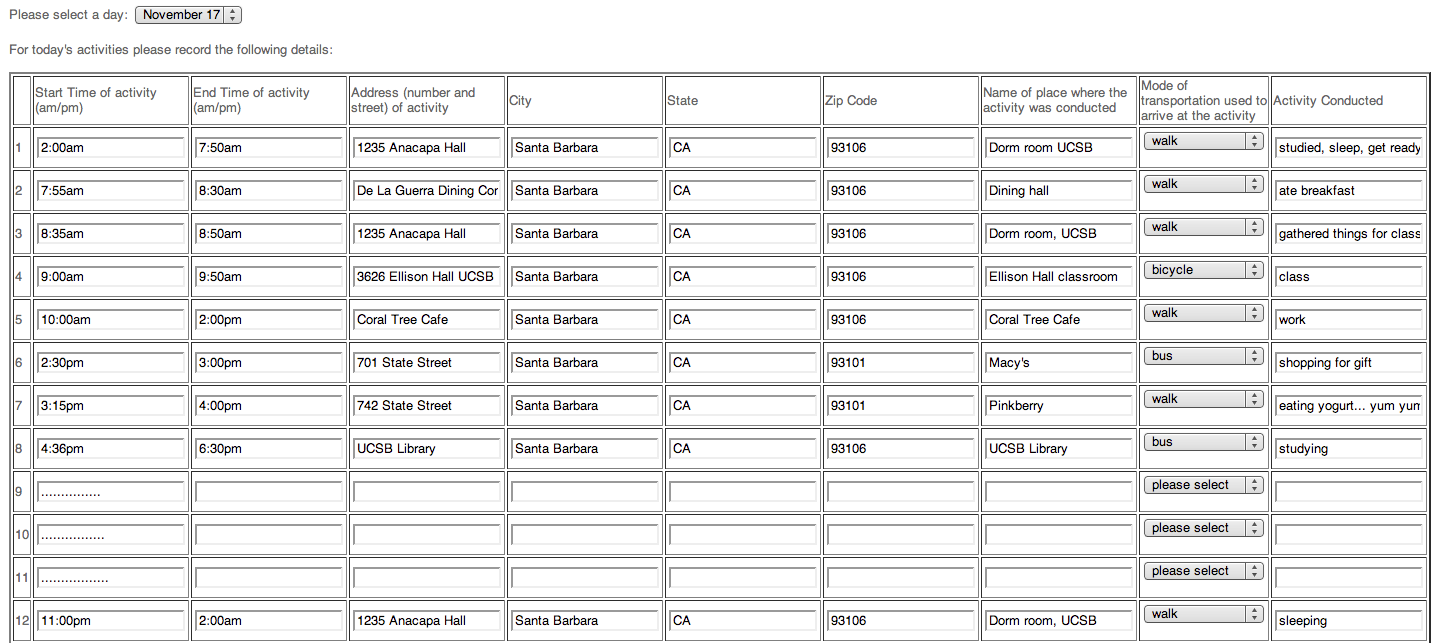
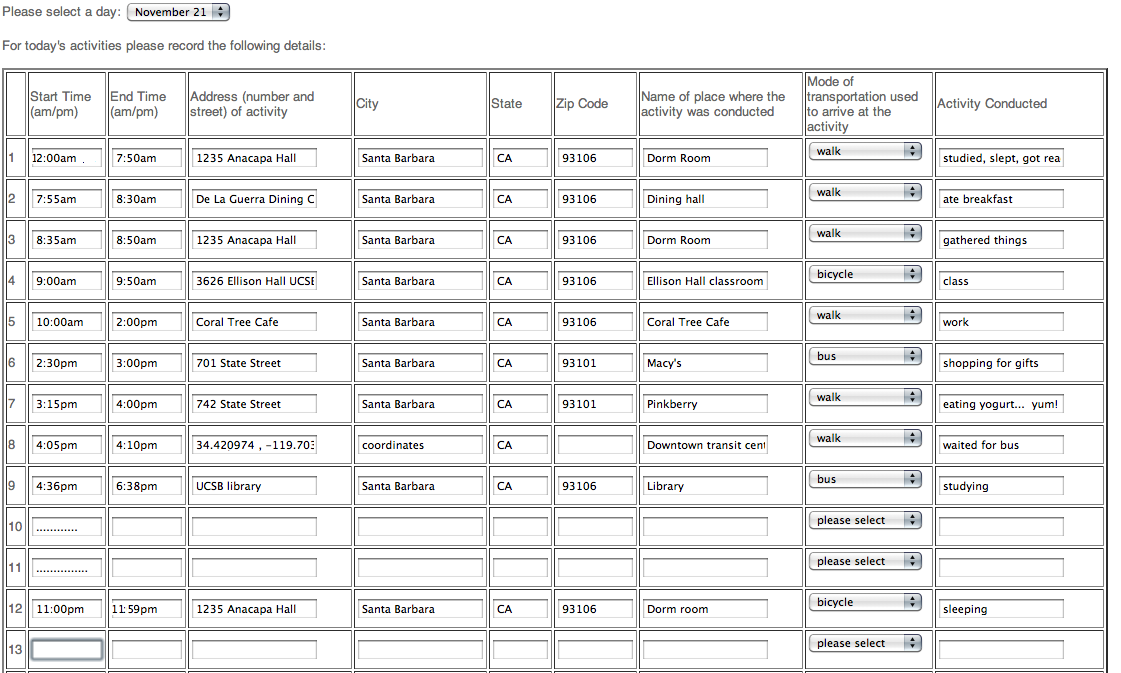
updated daily_log file

diff --git a/public/geotrans/daily_log.php b/public/geotrans/daily_log.php
@@ -54,11 +54,12 @@
 <td colspan="2">
 
 <h2>Please complete a log of todays activities</h2>
-<p>Please begin your day with the location and activity taking place at 2am the day of, and end your log with the location and activity which you participated in at 1:59am the next morning. </p>
-<p>Each location that you were at during the day should be recorded as a unique entry in the table</p>
-<p>Please record the start and end time as well as the address as accurately as possible. It is ok to use building names for places on the UCSB campus, but use numerical building addresses where appropriate</p>
-<p>Example:</p>
-<p><img src="log_example.png" width="1337" height="430" /><br/>
+<p>Please begin your day with the location and activity taking place at 12am the morning of, and end your log with the location and activity which you participated in at 11:59pm that night. </p>
+<p>Please report each location at which you spent 5 minutes duration or more. Each location that you were at during the day should be recorded as a unique entry in the table.</p>
+<p>Please record the start and end time as well as the address as accurately as possible. It is ok to use building names for places on the UCSB campus, but use numerical building addresses or latitude and longitude where appropriate</p>
+<p>When reporting the type of transportation used, please report the primary mode (for instance riding a bike and then taking a longer bus ride would be recorded as bus)</p>
+<p>Example log:</p>
+<p><img src="log_example.png" width="1152" height="429" /><br/>
 </p>
 <form action="daily_log2.php" method="post">
   
@@ -94,13 +95,13 @@ For today's activities please record the following details:
 	<tr>
 		<td width = 16></td>
 
-		<td width = 170>Start Time of activity (am/pm)</td>
-		<td width = 170>End Time of activity (am/pm)</td>
-		<td width = 170>Address (number and street) of activity</td>
+		<td width = 60>Start Time (am/pm)</td>
+		<td width = 60>End Time (am/pm)</td>
+		<td width = 160>Address (number and street) of activity</td>
         <td width = 40> City </td>
         <td width = 40> State </td>
-        <td width = 40> Zip Code </td>
-		<td width=  170>Name of place where the activity was conducted</td>
+        <td width = 20> Zip Code </td>
+		<td width=  160>Name of place where the activity was conducted</td>
         <td width = 124>Mode of transportation used to arrive at the activity</td>
 		<td width = 165>Activity Conducted</td>
         
@@ -109,12 +110,12 @@ For today's activities please record the following details:
 	</tr>
 	<tr>
 		<td>1</td>
-		<td><input type="text" name="stime1" length="6"></td>
-		<td><input type="text" name="etime1" length="6"></td>
+		<td><input type="text" name="stime1" size="9"></td>
+		<td><input type="text" name="etime1" size="9"></td>
 		<td><input type="text" name="add1" length="6"></td>
         <td><input type="text" name="city1" length="6"></td>
-        <td><input type="text" name="state1" length="6"></td>
-        <td><input type="text" name="zip1" length="6"></td> 
+        <td><input type="text" name="state1" size="6"></td>
+        <td><input type="text" name="zip1" size="10"></td> 
         <td><input type="text" name="place1" length="6" /></td>
         <!--<td><form id="form1" name="mode1" method="post" action="">
 		  <blockquote>
@@ -138,12 +139,12 @@ For today's activities please record the following details:
 	</tr>
 	<tr>
 		<td>2</td>
-		<td><input type="text" name="stime2" length="6"></td>
-		<td><input type="text" name="etime2" length="6"></td>
+		<td><input type="text" name="stime2" size="9"></td>
+		<td><input type="text" name="etime2" size="9"></td>
 		<td><input type="text" name="add2" length="6"></td>
         <td><input type="text" name="city2" length="6"></td>
-        <td><input type="text" name="state2" length="6"></td>
-        <td><input type="text" name="zip2" length="6"></td>
+        <td><input type="text" name="state2" size="6"></td>
+        <td><input type="text" name="zip2" size="10"></td>
         <td><input type="text" name="place2" length="6" /></td>
         <!--<td><form id="form1" name="mode1" method="post" action="">
 		  <blockquote>
@@ -166,12 +167,12 @@ For today's activities please record the following details:
 	</tr>
 	<tr>
 		<td>3</td>
-		<td><input type="text" name="stime3" length="6"></td>
-		<td><input type="text" name="etime3" length="6"></td>
+		<td><input type="text" name="stime3" size="9"></td>
+		<td><input type="text" name="etime3" size="9"></td>
 		<td><input type="text" name="add3" length="6"></td>
         <td><input type="text" name="city3" length="6"></td>
-        <td><input type="text" name="state3" length="6"></td>
-        <td><input type="text" name="zip3" length="6"></td>
+        <td><input type="text" name="state3" size="6"></td>
+        <td><input type="text" name="zip3" size="10"></td>
         <td><input type="text" name="place3" length="6" /></td>
         <!--<td><form id="form1" name="mode1" method="post" action="">
 		  <blockquote>
@@ -195,12 +196,12 @@ For today's activities please record the following details:
 	</tr>
 	<tr>
 		<td>4</td>
-		<td><input type="text" name="stime4" length="6"></td>
-		<td><input type="text" name="etime4" length="6"></td>
+		<td><input type="text" name="stime4" size="9"></td>
+		<td><input type="text" name="etime4" size="9"></td>
 		<td><input type="text" name="add4" length="6"></td>
         <td><input type="text" name="city4" length="6"></td>
-        <td><input type="text" name="state4" length="6"></td>
-        <td><input type="text" name="zip4" length="6"></td>
+        <td><input type="text" name="state4" size="6"></td>
+        <td><input type="text" name="zip4" size="10"></td>
         <td><input type="text" name="place4" length="6" /></td>
         <!--<td><form id="form1" name="mode1" method="post" action="">
 		  <blockquote>
@@ -223,12 +224,12 @@ For today's activities please record the following details:
 	</tr>
 	<tr>
 		<td>5</td>
-		<td><input type="text" name="stime5" length="6"></td>
-		<td><input type="text" name="etime5" length="6"></td>
+		<td><input type="text" name="stime5" size="9"></td>
+		<td><input type="text" name="etime5" size="9"></td>
 		<td><input type="text" name="add5" length="6"></td>
         <td><input type="text" name="city5" length="6"></td>
-        <td><input type="text" name="state5" length="6"></td>
-        <td><input type="text" name="zip5" length="6"></td>
+        <td><input type="text" name="state5" size="6"></td>
+        <td><input type="text" name="zip5" size="10"></td>
         <td><input type="text" name="place5" length="6" /></td>
         <!--<td><form id="form1" name="mode1" method="post" action="">
 		  <blockquote>
@@ -251,12 +252,12 @@ For today's activities please record the following details:
 	</tr>
 	<tr>
 		<td>6</td>
-		<td><input type="text" name="stime6" length="6"></td>
-		<td><input type="text" name="etime6" length="6"></td>
+		<td><input type="text" name="stime6" size="9"></td>
+		<td><input type="text" name="etime6" size="9"></td>
 		<td><input type="text" name="add6" length="6"></td>
         <td><input type="text" name="city6" length="6"></td>
-        <td><input type="text" name="state6" length="6"></td>
-        <td><input type="text" name="zip6" length="6"></td>
+        <td><input type="text" name="state6" size="6"></td>
+        <td><input type="text" name="zip6" size="10"></td>
         <td><input type="text" name="place6" length="6" /></td>
         <!--<td><form id="form1" name="mode1" method="post" action="">
 		  <blockquote>
@@ -279,12 +280,12 @@ For today's activities please record the following details:
 	</tr>	
 	<tr>
 		<td>7</td>
-		<td><input type="text" name="stime7" length="6"></td>
-		<td><input type="text" name="etime7" length="6"></td>
+		<td><input type="text" name="stime7" size="9"></td>
+		<td><input type="text" name="etime7" size="9"></td>
 		<td><input type="text" name="add7" length="6"></td>
         <td><input type="text" name="city7" length="6"></td>
-        <td><input type="text" name="state7" length="6"></td>
-        <td><input type="text" name="zip7" length="6"></td>
+        <td><input type="text" name="state7" size="6"></td>
+        <td><input type="text" name="zip7" size="10"></td>
         <td><input type="text" name="place7" length="6" /></td>
         <!--<td><form id="form1" name="mode1" method="post" action="">
 		  <blockquote>
@@ -307,12 +308,12 @@ For today's activities please record the following details:
         </tr>	
 	<tr>
 		<td>8</td>
-		<td><input type="text" name="stime8" length="6"></td>
-		<td><input type="text" name="etime8" length="6"></td>
+		<td><input type="text" name="stime8" size="9"></td>
+		<td><input type="text" name="etime8" size="9"></td>
 		<td><input type="text" name="add8" length="6"></td>
         <td><input type="text" name="city8" length="6"></td>
-        <td><input type="text" name="state8" length="6"></td>
-        <td><input type="text" name="zip8" length="6"></td>
+        <td><input type="text" name="state8" size="6"></td>
+        <td><input type="text" name="zip8" size="10"></td>
         <td><input type="text" name="place8" length="6" /></td>
         <!--<td><form id="form1" name="mode1" method="post" action="">
 		  <blockquote>
@@ -335,12 +336,12 @@ For today's activities please record the following details:
         </tr>	
 	<tr>
 		<td>9</td>
-		<td><input type="text" name="stime9" length="6"></td>
-		<td><input type="text" name="etime9" length="6"></td>
+		<td><input type="text" name="stime9" size="9"></td>
+		<td><input type="text" name="etime9" size="9"></td>
 		<td><input type="text" name="add9" length="6"></td>
         <td><input type="text" name="city9" length="6"></td>
-        <td><input type="text" name="state9" length="6"></td>
-        <td><input type="text" name="zip9" length="6"></td>
+        <td><input type="text" name="state9" size="6"></td>
+        <td><input type="text" name="zip9" size="10"></td>
         <td><input type="text" name="place9" length="6" /></td>
         <!--<td><form id="form1" name="mode1" method="post" action="">
 		  <blockquote>
@@ -363,12 +364,12 @@ For today's activities please record the following details:
         </tr>	
 	<tr>
 		<td>10</td>
-		<td><input type="text" name="stime10" length="6"></td>
-		<td><input type="text" name="etime10" length="6"></td>
+		<td><input type="text" name="stime10" size="9"></td>
+		<td><input type="text" name="etime10" size="9"></td>
 		<td><input type="text" name="add10" length="6"></td>
         <td><input type="text" name="city10" length="6"></td>
-        <td><input type="text" name="state10" length="6"></td>
-        <td><input type="text" name="zip10" length="6"></td>
+        <td><input type="text" name="state10" size="6"></td>
+        <td><input type="text" name="zip10" size="10"></td>
         <td><input type="text" name="place10" length="6" /></td>
         <!--<td><form id="form1" name="mode1" method="post" action="">
 		  <blockquote>
@@ -391,12 +392,12 @@ For today's activities please record the following details:
         </tr>	
 	<tr>
 		<td>11</td>
-		<td><input type="text" name="stime11" length="6"></td>
-		<td><input type="text" name="etime11" length="6"></td>
+		<td><input type="text" name="stime11" size="9"></td>
+		<td><input type="text" name="etime11" size="9"></td>
 		<td><input type="text" name="add11" length="6"></td>
         <td><input type="text" name="city11" length="6"></td>
-        <td><input type="text" name="state11" length="6"></td>
-        <td><input type="text" name="zip11" length="6"></td>
+        <td><input type="text" name="state11" size="6"></td>
+        <td><input type="text" name="zip11" size="10"></td>
         <td><input type="text" name="place11" length="6" /></td>
         <!--<td><form id="form1" name="mode1" method="6post" action="">
 		  <blockquote>
@@ -419,12 +420,12 @@ For today's activities please record the following details:
         </tr>	
 	<tr>
 		<td>12</td>
-		<td><input type="text" name="stime12" length="6"></td>
-		<td><input type="text" name="etime12" length="6"></td>
+		<td><input type="text" name="stime12" size="9"></td>
+		<td><input type="text" name="etime12" size="9"></td>
 		<td><input type="text" name="add12" length="6"></td>
         <td><input type="text" name="city12" length="6"></td>
-        <td><input type="text" name="state12" length="6"></td>
-        <td><input type="text" name="zip12" length="6"></td>
+        <td><input type="text" name="state12" size="6"></td>
+        <td><input type="text" name="zip12" size="10"></td>
         <td><input type="text" name="place12" length="6" /></td>
         <!--<td><form id="form1" name="mode1" method="post" action="">
 		  <blockquote>
@@ -447,12 +448,12 @@ For today's activities please record the following details:
         </tr>	
 	<tr>
 		<td>13</td>
-		<td><input type="text" name="stime13" length="6"></td>
-		<td><input type="text" name="etime13" length="6"></td>
+		<td><input type="text" name="stime13" size="9"></td>
+		<td><input type="text" name="etime13" size="9"></td>
 		<td><input type="text" name="add13" length="6"></td>
         <td><input type="text" name="city13" length="6"></td>
-        <td><input type="text" name="state13" length="6"></td>
-        <td><input type="text" name="zip13" length="6"></td>
+        <td><input type="text" name="state13" size="6"></td>
+        <td><input type="text" name="zip13" size="10"></td>
         <td><input type="text" name="place13" length="6" /></td>
         <!--<td><form id="form1" name="mode1" method="post" action="">
 		  <blockquote>
@@ -475,12 +476,12 @@ For today's activities please record the following details:
         </tr>	
 	<tr>
 		<td>14</td>
-		<td><input type="text" name="stime14" length="6"></td>
-		<td><input type="text" name="etime14" length="6"></td>
+		<td><input type="text" name="stime14" size="9"></td>
+		<td><input type="text" name="etime14" size="9"></td>
 		<td><input type="text" name="add14" length="6"></td>
         <td><input type="text" name="city14" length="6"></td>
-        <td><input type="text" name="state14" length="6"></td>
-        <td><input type="text" name="zip14" length="6"></td>
+        <td><input type="text" name="state14" size="6"></td>
+        <td><input type="text" name="zip14" size="10"></td>
         <td><input type="text" name="place14" length="6" /></td>
         <!--<td><form id="form1" name="mode1" method="post" action="">
 		  <blockquote>
@@ -503,12 +504,12 @@ For today's activities please record the following details:
         </tr>	
 	<tr>
 		<td>15</td>
-		<td><input type="text" name="stime15" length="6"></td>
-		<td><input type="text" name="etime15" length="6"></td>
+		<td><input type="text" name="stime15" size="9"></td>
+		<td><input type="text" name="etime15" size="9"></td>
 		<td><input type="text" name="add15" length="6"></td>
         <td><input type="text" name="city15" length="6"></td>
-        <td><input type="text" name="state15" length="6"></td>
-        <td><input type="text" name="zip15" length="6"></td>
+        <td><input type="text" name="state15" size="6"></td>
+        <td><input type="text" name="zip15" size="10"></td>
         <td><input type="text" name="place15" length="6" /></td>
         <!--<td><form id="form1" name="mode1" method="post" action="">
 		  <blockquote>
@@ -531,12 +532,12 @@ For today's activities please record the following details:
         </tr>	
 	<tr>
 		<td>16</td>
-		<td><input type="text" name="stime16" length="6"></td>
-		<td><input type="text" name="etime16" length="6"></td>
+		<td><input type="text" name="stime16" size="9"></td>
+		<td><input type="text" name="etime16" size="9"></td>
 		<td><input type="text" name="add16" length="6"></td>
         <td><input type="text" name="city16" length="6"></td>
-        <td><input type="text" name="state16" length="6"></td>
-        <td><input type="text" name="zip16" length="6"></td>
+        <td><input type="text" name="state16" size="6"></td>
+        <td><input type="text" name="zip16" size="10"></td>
         <td><input type="text" name="place16" length="6" /></td>
         <!--<td><form id="form1" name="mode1" method="post" action="">
 		  <blockquote>
